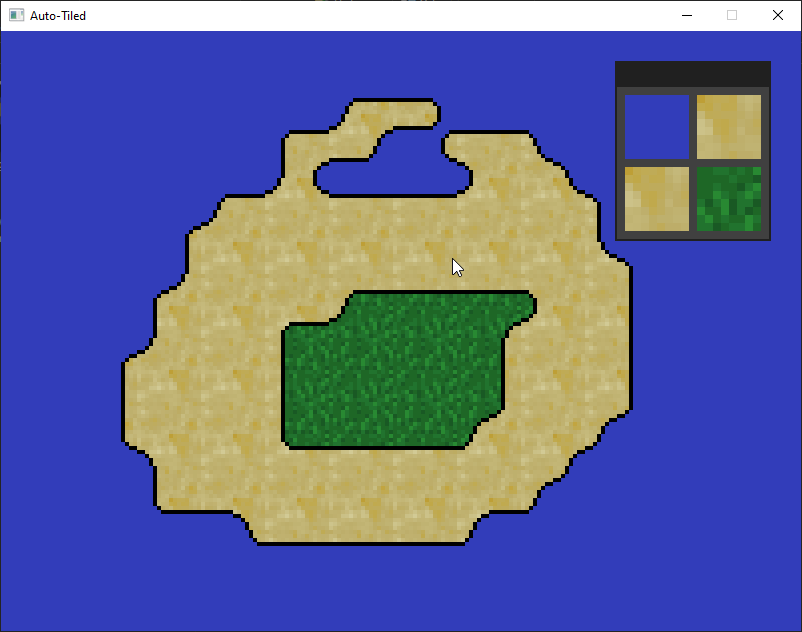
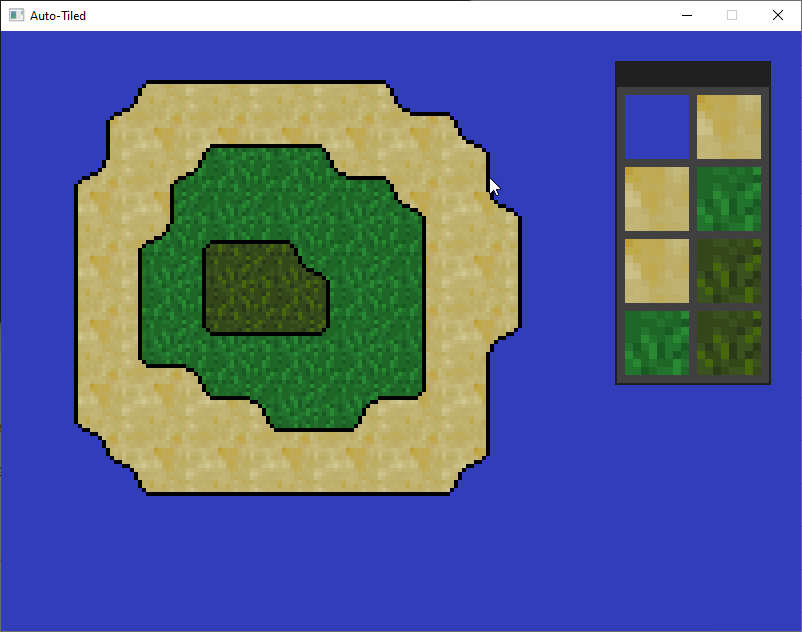
added new terrain types

diff --git a/Auto-Tiled/palette.hpp b/Auto-Tiled/palette.hpp
@@ -141,7 +141,7 @@ public:
 
 	Palette() : ElementGUI() {
 		
-		sf::Vector2i tiles(2, 2);
+		sf::Vector2i tiles(2, 4);
 
 		bar_size = sf::Vector2f(tiles.x * 64 + (tiles.x + 1) * margin, 24);
 		size = sf::Vector2f(tiles.x * 64 + (tiles.x + 1) * margin, tiles.y * 64 + (tiles.y + 1) * margin);
@@ -184,6 +184,38 @@ public:
 		buttons.push_back(btn);
 
 		btn = new PaletteButton("grass", 1, 1);
+		btn->onclick_func = [this, btn]() {
+			terrain_type = btn->terrain_type;
+			terrain_value = btn->terrain_value;
+			std::cout << btn->name << " - " << btn->terrain_value << "\n";
+			};
+		buttons.push_back(btn);
+
+		btn = new PaletteButton("sands", 2, 0);
+		btn->onclick_func = [this, btn]() {
+			terrain_type = btn->terrain_type;
+			terrain_value = btn->terrain_value;
+			std::cout << btn->name << " - " << btn->terrain_value << "\n";
+			};
+		buttons.push_back(btn);
+
+		btn = new PaletteButton("steps", 2, 1);
+		btn->onclick_func = [this, btn]() {
+			terrain_type = btn->terrain_type;
+			terrain_value = btn->terrain_value;
+			std::cout << btn->name << " - " << btn->terrain_value << "\n";
+			};
+		buttons.push_back(btn);
+
+		btn = new PaletteButton("grass", 3, 0);
+		btn->onclick_func = [this, btn]() {
+			terrain_type = btn->terrain_type;
+			terrain_value = btn->terrain_value;
+			std::cout << btn->name << " - " << btn->terrain_value << "\n";
+			};
+		buttons.push_back(btn);
+
+		btn = new PaletteButton("steps", 3, 1);
 		btn->onclick_func = [this, btn]() {
 			terrain_type = btn->terrain_type;
 			terrain_value = btn->terrain_value;

diff --git a/README.md b/README.md
@@ -23,7 +23,7 @@
 4. Otwórz **Wiersz poleceń (cmd)**.
 5. Przejdź do katalogu projektu:
 `
-cd ..\..\Auto-Tiled
+cd ..\..\Easy Notepad
 `
 6. Utwórz folder **build**:
 `
